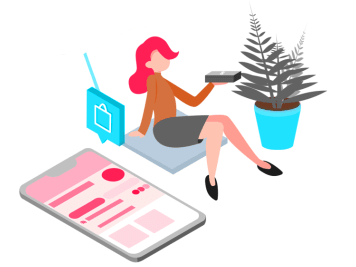
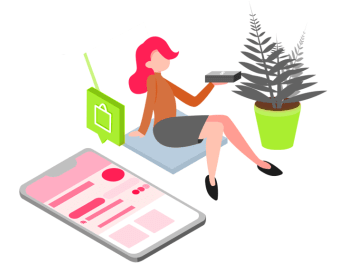
Use secondary color in hero-images

Changed region(s): [[0.2163, 0.1798, 0.3708, 0.5693], [0.7107, 0.3895, 0.8652, 0.5693]]

diff --git a/_sass/_hero.scss b/_sass/_hero.scss
@@ -1,6 +1,5 @@
 section#hero {
   background-color: var(--primary-bg-color);
-  //color: white;
 
   .content {
     @include md {
@@ -22,12 +21,10 @@ section#hero {
 
     #claimtext {
       font-style: italic;
-      font-weight: bold;
       color: var(--primary-color);
     }
 
     img#claimimage {
-
       @include md {
         flex: 0 0 auto;
         width: 400px;
